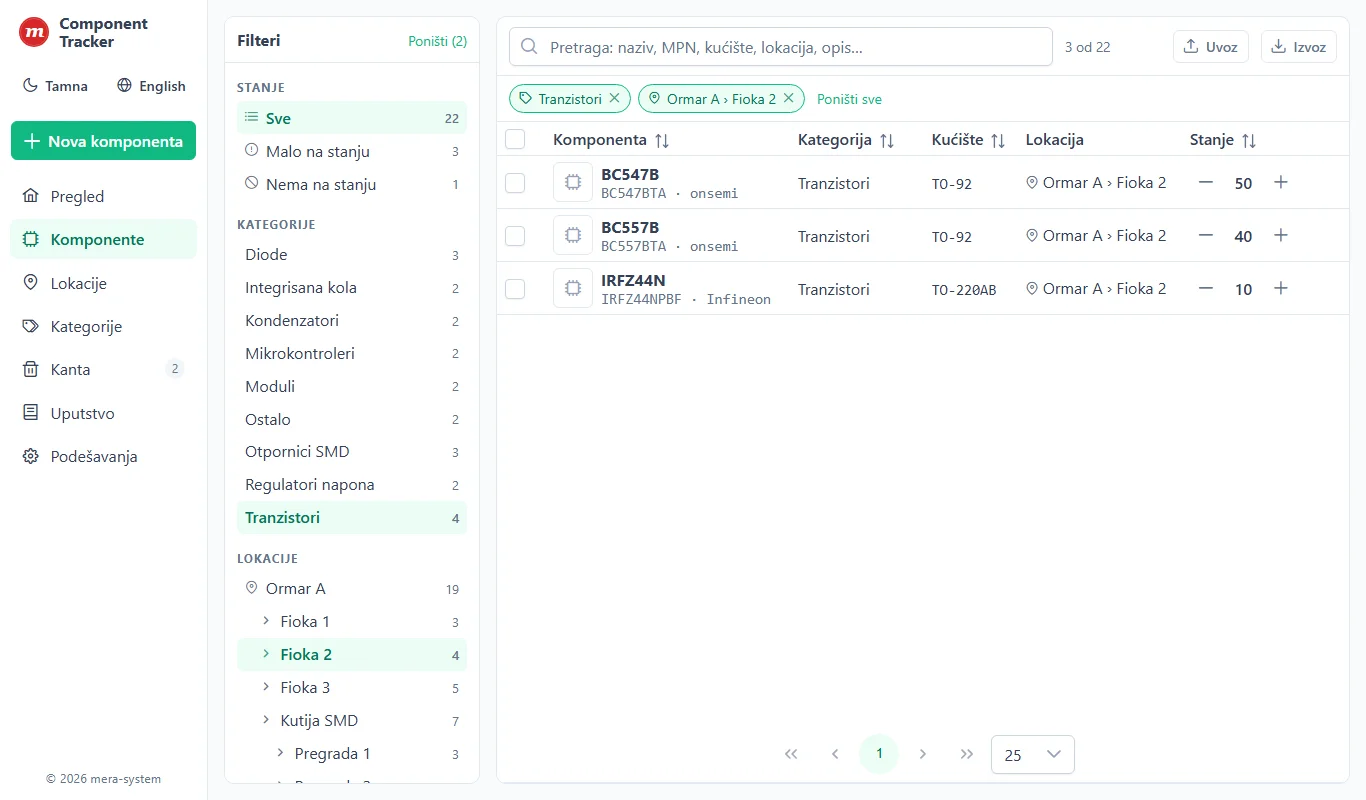
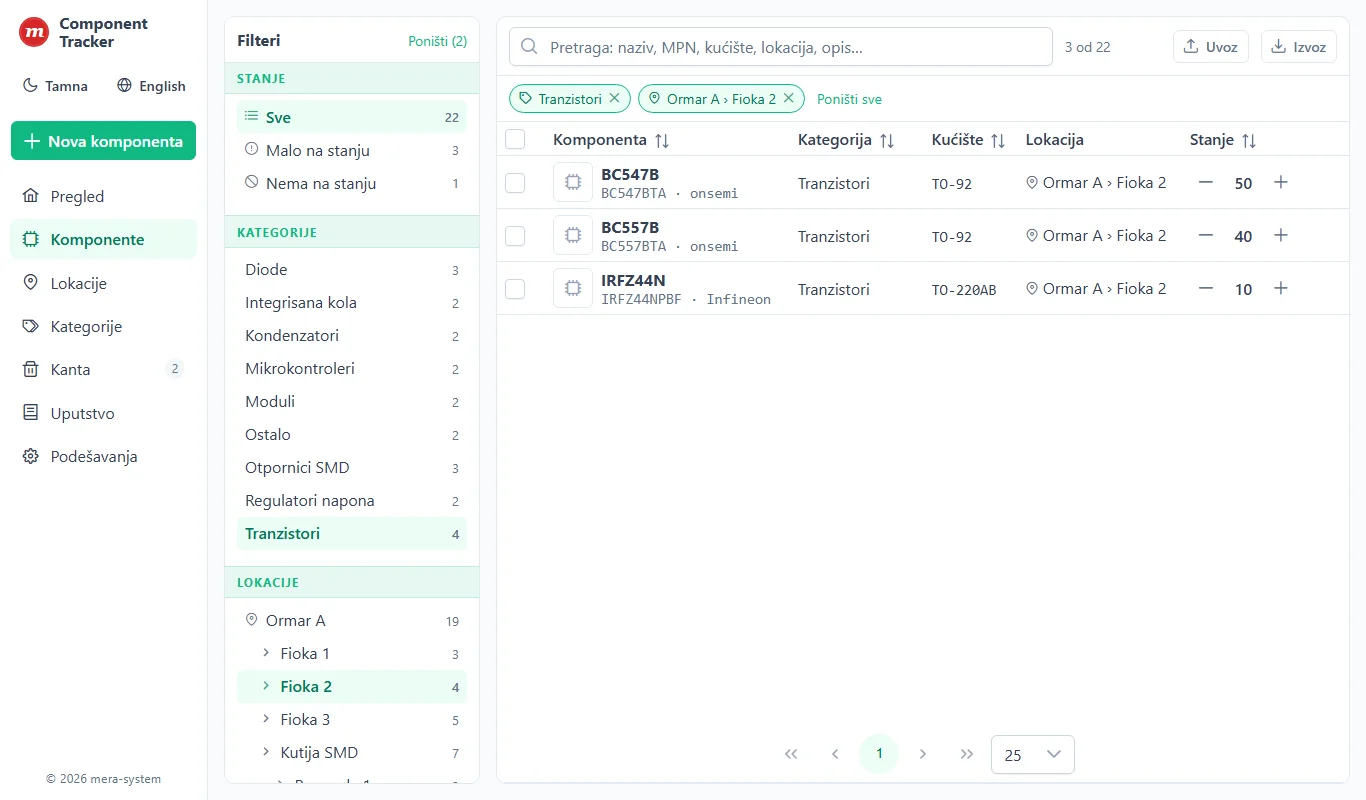
Filters: highlighted section headings; refresh guide screenshots

diff --git a/client/src/components/FilterPanel.vue b/client/src/components/FilterPanel.vue
@@ -102,7 +102,16 @@ function reset() {
     background: var(--p-content-background); border-bottom: 1px solid var(--p-content-border-color);
 }
 .head a { font-size: .85rem; text-decoration: none; }
-h4 { margin: 1rem 0 .35rem; font-size: .78rem; text-transform: uppercase; letter-spacing: .05em; color: var(--p-text-muted-color); }
+/* naslovi sekcija: traka u boji preko cele širine panela, da se ne stapaju sa stavkama */
+h4 {
+    margin: 1rem -.75rem .35rem; padding: .45rem .75rem;
+    font-size: .78rem; font-weight: 700; text-transform: uppercase; letter-spacing: .06em;
+    color: var(--p-primary-color);
+    background: color-mix(in srgb, var(--p-primary-color) 10%, var(--p-content-background));
+    border-top: 1px solid color-mix(in srgb, var(--p-primary-color) 18%, transparent);
+    border-bottom: 1px solid color-mix(in srgb, var(--p-primary-color) 18%, transparent);
+}
+.head + h4 { margin-top: 0; border-top: 0; }
 .item {
     display: flex; align-items: center; gap: .5rem; width: 100%;
     padding: .38rem .5rem; border: 0; border-radius: 6px; background: transparent;
